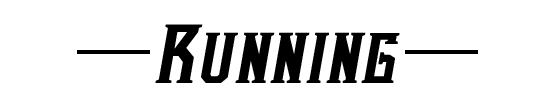
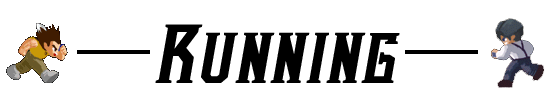
Cambio de fondo y algunas modificaciones

Changed region(s): [[0.8592, 0.1714, 0.9819, 0.8571], [0.0, 0.2286, 0.1227, 0.8]]

diff --git a/TP4/EntregaFinal/css/estilo.css b/TP4/EntregaFinal/css/estilo.css
@@ -1,5 +1,10 @@
 body {
-  background: #91a7a0;
+  background: url('../imagenes/BG.png');
+  background-size: 100% auto;
+}
+
+.pad{
+  padding: 0px;
 }
 
 .game{
@@ -11,16 +16,16 @@ body {
 
 .vidas{
   height: 35px;
-  top: 138px;
-  left: 25px;
+  top: 140px;
+  left: 20px;
   position: absolute;
   z-index: 8;
 }
 
 .controles{
   height: 50px;
-  top: 138px;
-  right: -5px;
+  top: 136px;
+  right: 12px;
   position: absolute;
   z-index: 8;
 }
@@ -149,7 +154,7 @@ h2{
   width: 87px;
   height: 80px;
   top: 388px;
-  left: 40px;
+  left: 30px;
   background-repeat: no-repeat;
   position: absolute;
   z-index: 5;

diff --git a/TP4/EntregaFinal/index.html b/TP4/EntregaFinal/index.html
@@ -12,7 +12,7 @@
   <body>
     <div class="container">
       <div class="row">
-        <div class="col-md-10 col-md-offset-1 .col-sm-12">
+        <div class="col-md-10 col-md-offset-1 col-sm-12 pad">
           <h1><img class="center-block" src="imagenes/running.png" alt=""></h1>
           <div id="game" class="game">
             <div class="background_0"></div>
